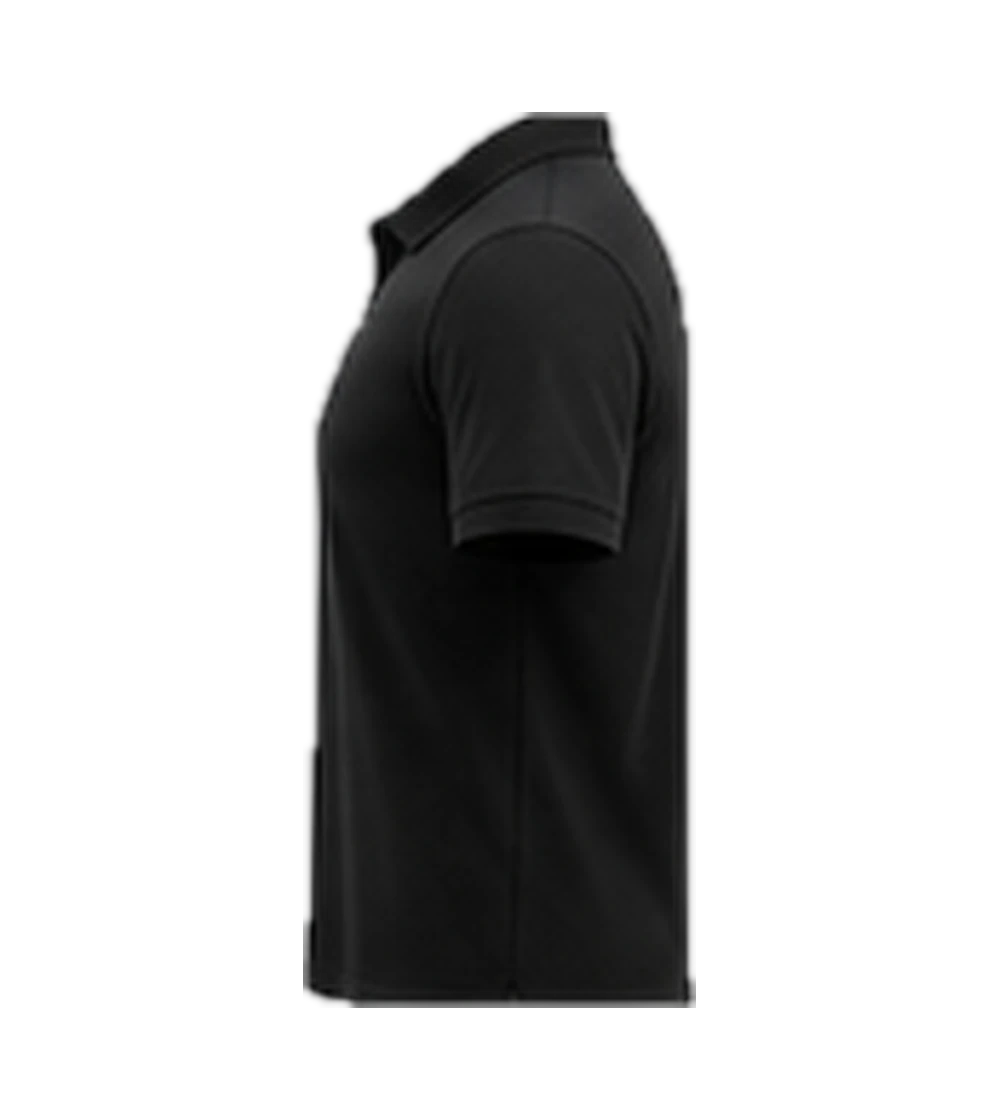
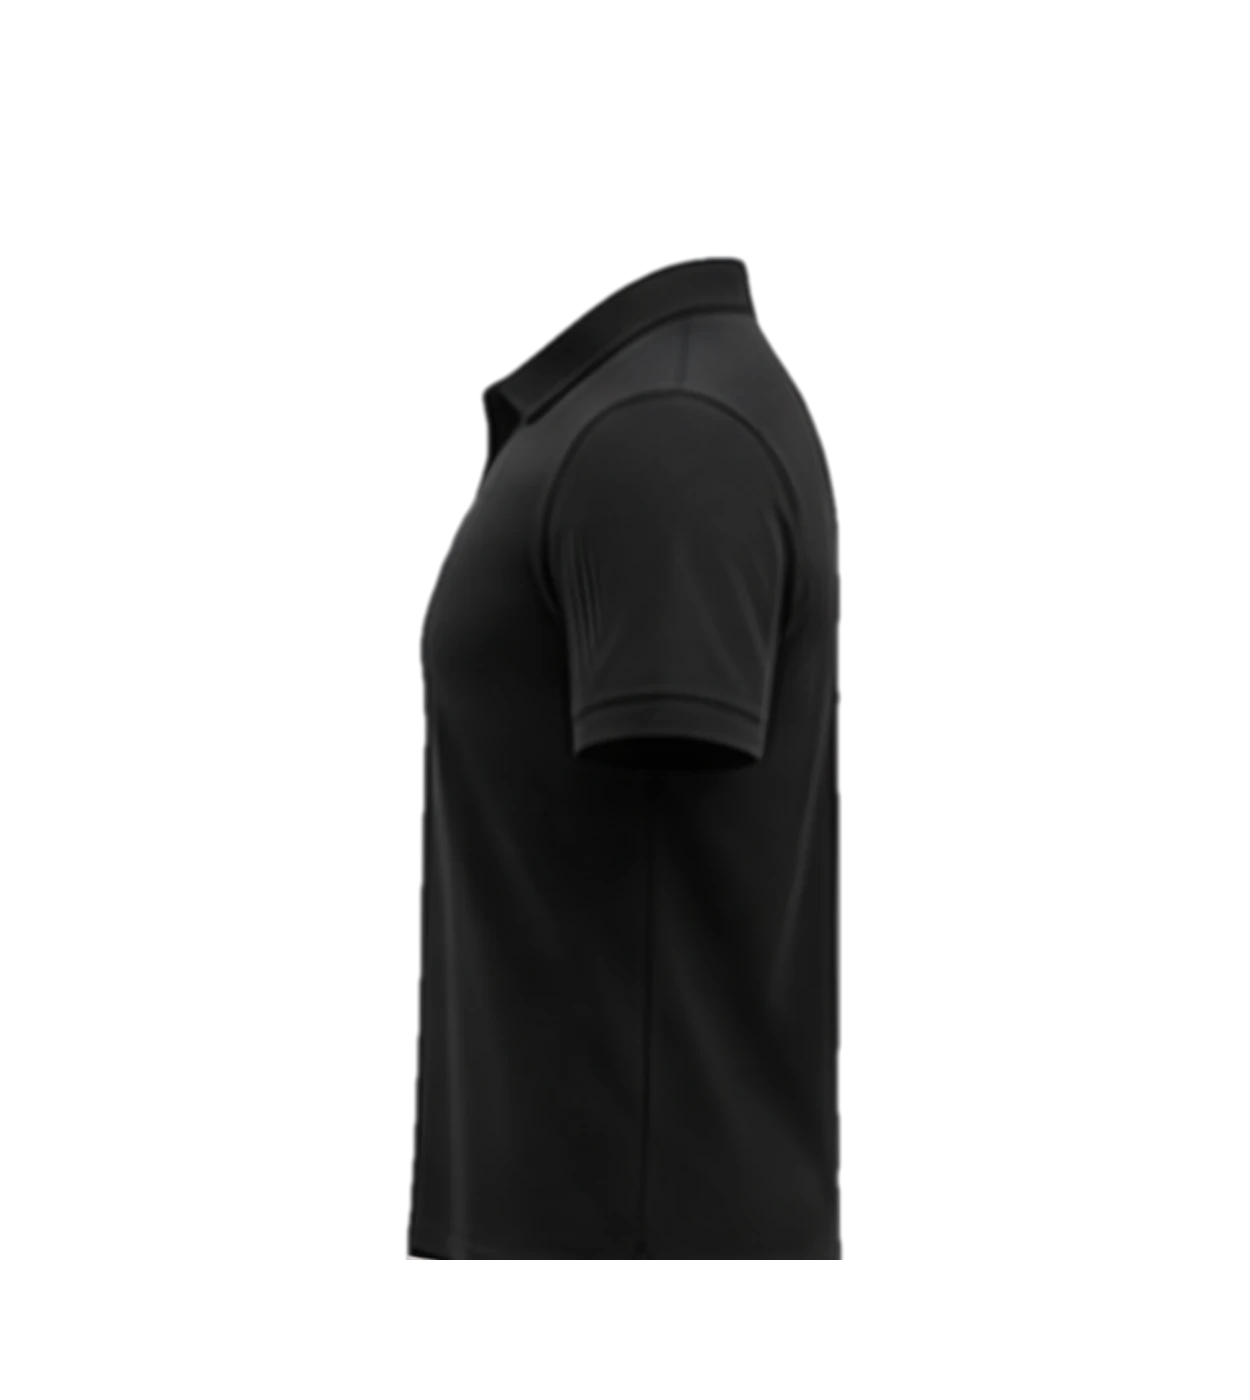
Nouvelles photos produits nettes

Changed region(s): [[0.279, 0.0938, 0.713, 0.9062], [0.434, 0.4688, 0.62, 0.5625]]

diff --git a/src/config/products.ts b/src/config/products.ts
@@ -47,36 +47,36 @@ export const products: ProductConfig[] = [
     id: "polo", name: "Polo",
     colors: [{ name: "Noir", hex: "#111111", photos: ph("polo", "base", ["front", "side", "back"]) }],
     sizes: ["S", "M", "L", "XL", "XXL"], price: null,
-    faces: { front: { x: 30, y: 36, w: 40, h: 30 }, side: { x: 41, y: 20, w: 18, h: 18 }, back: { x: 30, y: 22, w: 40, h: 40 } },
+    faces: { front: { x: 30, y: 36, w: 40, h: 28 }, side: { x: 51, y: 27, w: 14, h: 15 }, back: { x: 30, y: 26, w: 40, h: 38 } },
   },
   {
     id: "casquette", name: "Casquette",
     colors: [{ name: "Noir", hex: "#111111", photos: ph("casquette", "base", ["front", "side", "back"]) }],
     sizes: ["Unique"], price: null,
-    faces: { front: { x: 36, y: 30, w: 28, h: 20 }, side: { x: 48, y: 34, w: 22, h: 16 }, back: { x: 38, y: 30, w: 24, h: 15 } },
+    faces: { front: { x: 34, y: 34, w: 32, h: 18 }, side: { x: 52, y: 39, w: 22, h: 17 }, back: { x: 36, y: 36, w: 28, h: 14 } },
   },
   {
     id: "tote-bag", name: "Tote bag",
     colors: [{ name: "Écru", hex: "#E6DCC8", photos: ph("tote-bag", "base", ["front", "back"]) }],
     sizes: ["Unique"], price: null,
-    faces: { front: { x: 30, y: 52, w: 40, h: 30 }, back: { x: 32, y: 52, w: 36, h: 30 } },
+    faces: { front: { x: 30, y: 52, w: 40, h: 28 }, back: { x: 34, y: 52, w: 32, h: 28 } },
   },
   {
     id: "mug", name: "Mug",
-    colors: [{ name: "Blanc", hex: "#FFFFFF", photos: ph("mug", "base", ["front", "side", "back"]) }],
+    colors: [{ name: "Blanc", hex: "#FFFFFF", photos: ph("mug", "base", ["front", "back"]) }],
     sizes: ["Unique"], price: null,
-    faces: { front: { x: 18, y: 28, w: 34, h: 36 }, side: { x: 24, y: 28, w: 14, h: 36 }, back: { x: 32, y: 28, w: 36, h: 36 } },
+    faces: { front: { x: 20, y: 31, w: 38, h: 36 }, back: { x: 32, y: 31, w: 36, h: 36 } },
   },
   {
     id: "pantalon", name: "Pantalon",
     colors: [{ name: "Noir", hex: "#111111", photos: ph("pantalon", "base", ["front", "side", "back"]) }],
     sizes: ["S", "M", "L", "XL", "XXL"], price: null,
-    faces: { front: { x: 34, y: 26, w: 14, h: 16 }, side: { x: 42, y: 24, w: 16, h: 20 }, back: { x: 36, y: 22, w: 28, h: 18 } },
+    faces: { front: { x: 35, y: 24, w: 13, h: 16 }, side: { x: 42, y: 25, w: 16, h: 20 }, back: { x: 36, y: 22, w: 28, h: 16 } },
   },
   {
     id: "sac-a-dos", name: "Sac à dos",
     colors: [{ name: "Noir", hex: "#111111", photos: ph("sac-a-dos", "base", ["front", "side", "back"]) }],
     sizes: ["Unique"], price: null,
-    faces: { front: { x: 30, y: 34, w: 40, h: 18 }, side: { x: 36, y: 30, w: 24, h: 26 }, back: { x: 32, y: 30, w: 36, h: 30 } },
+    faces: { front: { x: 30, y: 33, w: 40, h: 18 }, side: { x: 38, y: 34, w: 22, h: 22 }, back: { x: 40, y: 34, w: 20, h: 24 } },
   },
 ];

diff --git a/src/components/simulator/PreviewStage.tsx b/src/components/simulator/PreviewStage.tsx
@@ -92,11 +92,11 @@ export const PreviewStage = forwardRef<PreviewHandle, Props>(function PreviewSta
   return (
     <div ref={wrapRef} className={`relative w-full overflow-hidden rounded-3xl border border-line ${darkBg ? "bg-ink" : "bg-mist"}`}
       style={{ aspectRatio: `${W}/${H}`, touchAction: "none" }}>
-      <Stage ref={stageRef} width={width} height={(width * H) / W} scale={{ x: scale, y: scale }}
+      <Stage ref={stageRef} pixelRatio={typeof window === "undefined" ? 1 : Math.max(window.devicePixelRatio || 1, 2)} width={width} height={(width * H) / W} scale={{ x: scale, y: scale }}
         offsetX={(W - W / zoom) / 2} offsetY={(H - H / zoom) / 2}>
         <Layer>
           {photo ? (
-            photoImg && <KImage image={photoImg} x={0} y={0} width={W} height={H} listening={false} />
+            photoImg && <KImage image={photoImg} x={0} y={0} width={W} height={H} listening={false} imageSmoothingEnabled />
           ) : isCap ? (
             <Group>
               <Path data="M90 330 Q90 120 250 120 Q410 120 410 330 Z" fill={color} stroke={outline} strokeWidth={2} />
